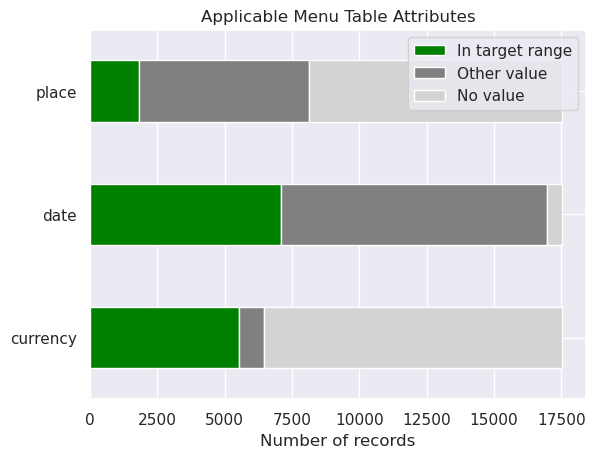
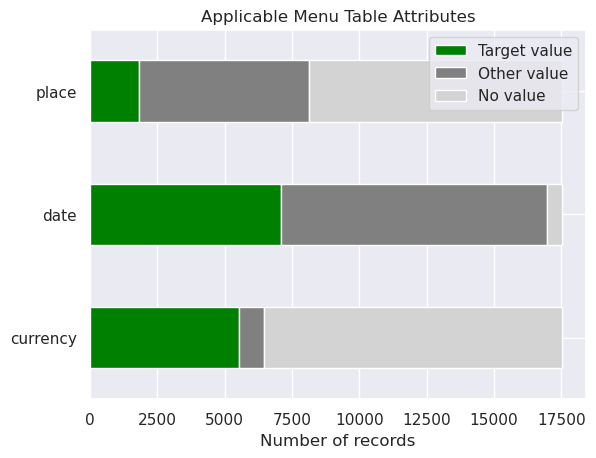
Bar chart title tweak

Changed region(s): [[0.6946, 0.0917, 0.9664, 0.2445]]

diff --git a/src/explore.py b/src/explore.py
@@ -30,9 +30,9 @@ def explore_menu_table(menu_df: pd.DataFrame) -> None:
     assert menu_df['place'].size == menu_df['date'].size == menu_df['currency'].size, "Invalid attribute length assumption"
 
     bar_df = pd.DataFrame({
-            'In target range': [menu_df[currency_dollars]['currency'].size, menu_df[date_1900s]['date'].size, menu_df[place_ny]   ['place'].size],
-            'Other value':     [menu_df[currency_other]  ['currency'].size, menu_df[date_other]['date'].size, menu_df[place_other]['place'].size],
-            'No value':        [menu_df[currency_null]   ['currency'].size, menu_df[date_null] ['date'].size, menu_df[place_null] ['place'].size]
+            'Target value': [menu_df[currency_dollars]['currency'].size, menu_df[date_1900s]['date'].size, menu_df[place_ny]   ['place'].size],
+            'Other value':  [menu_df[currency_other]  ['currency'].size, menu_df[date_other]['date'].size, menu_df[place_other]['place'].size],
+            'No value':     [menu_df[currency_null]   ['currency'].size, menu_df[date_null] ['date'].size, menu_df[place_null] ['place'].size]
         },
         index=['currency', 'date', 'place']
     )
